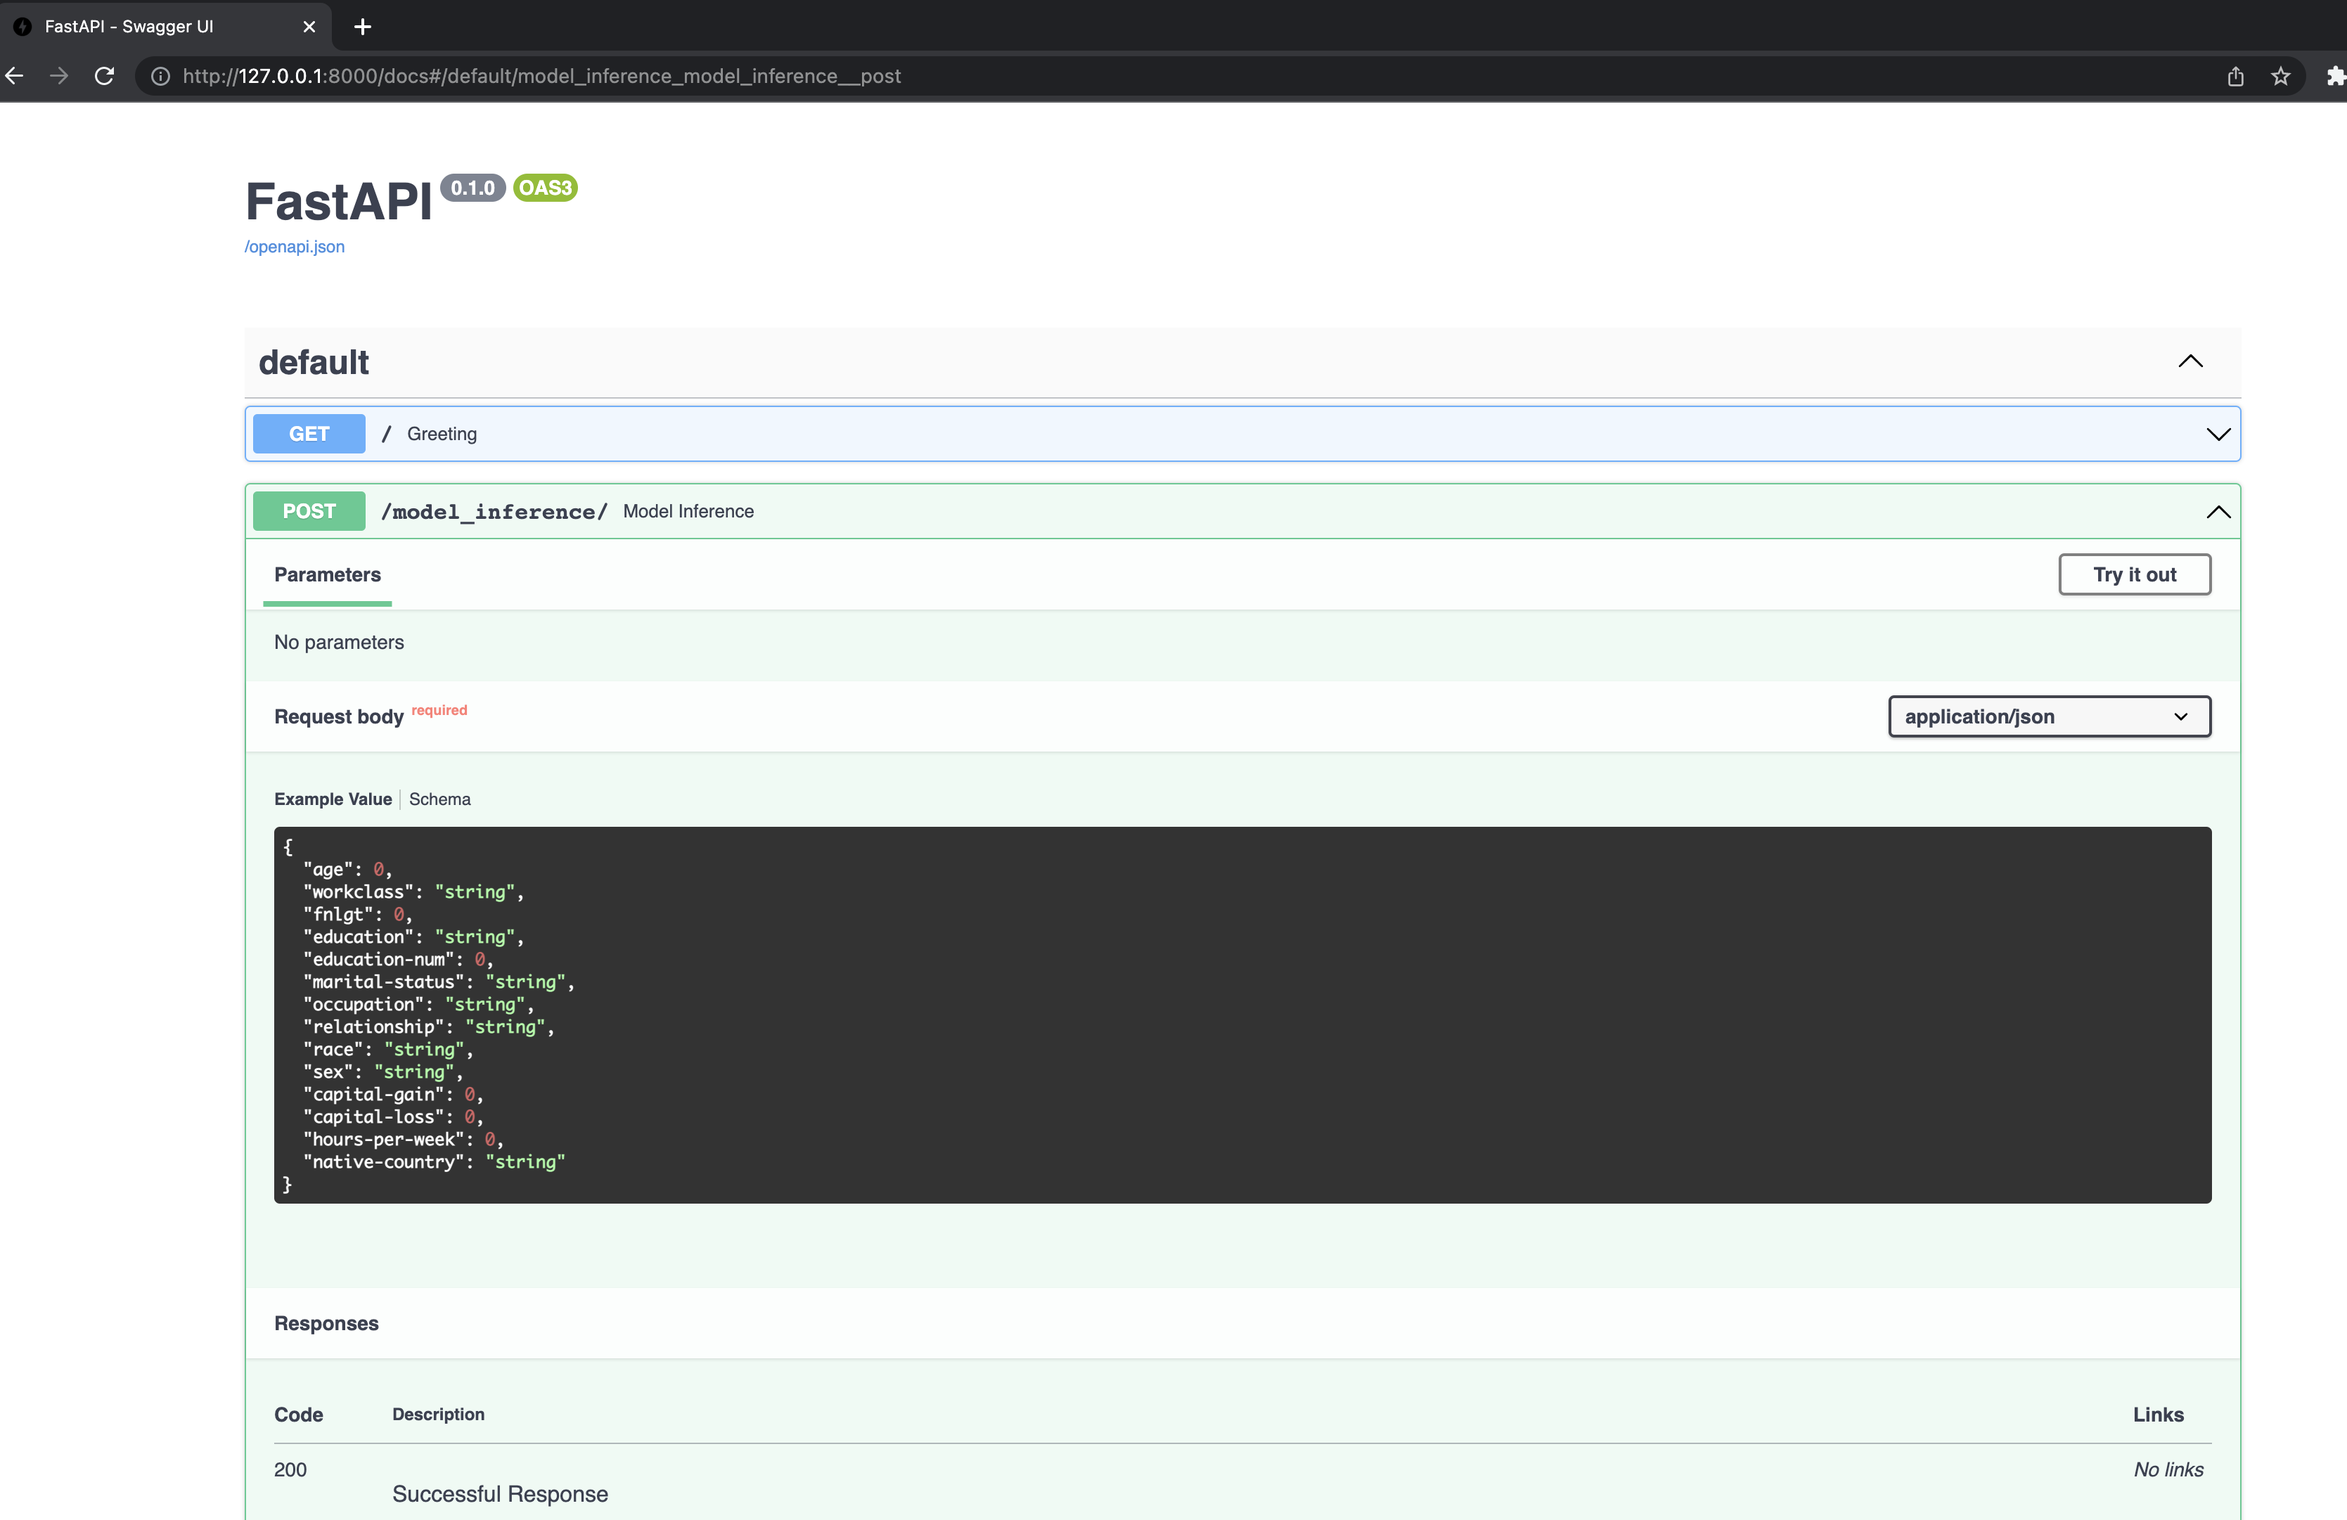
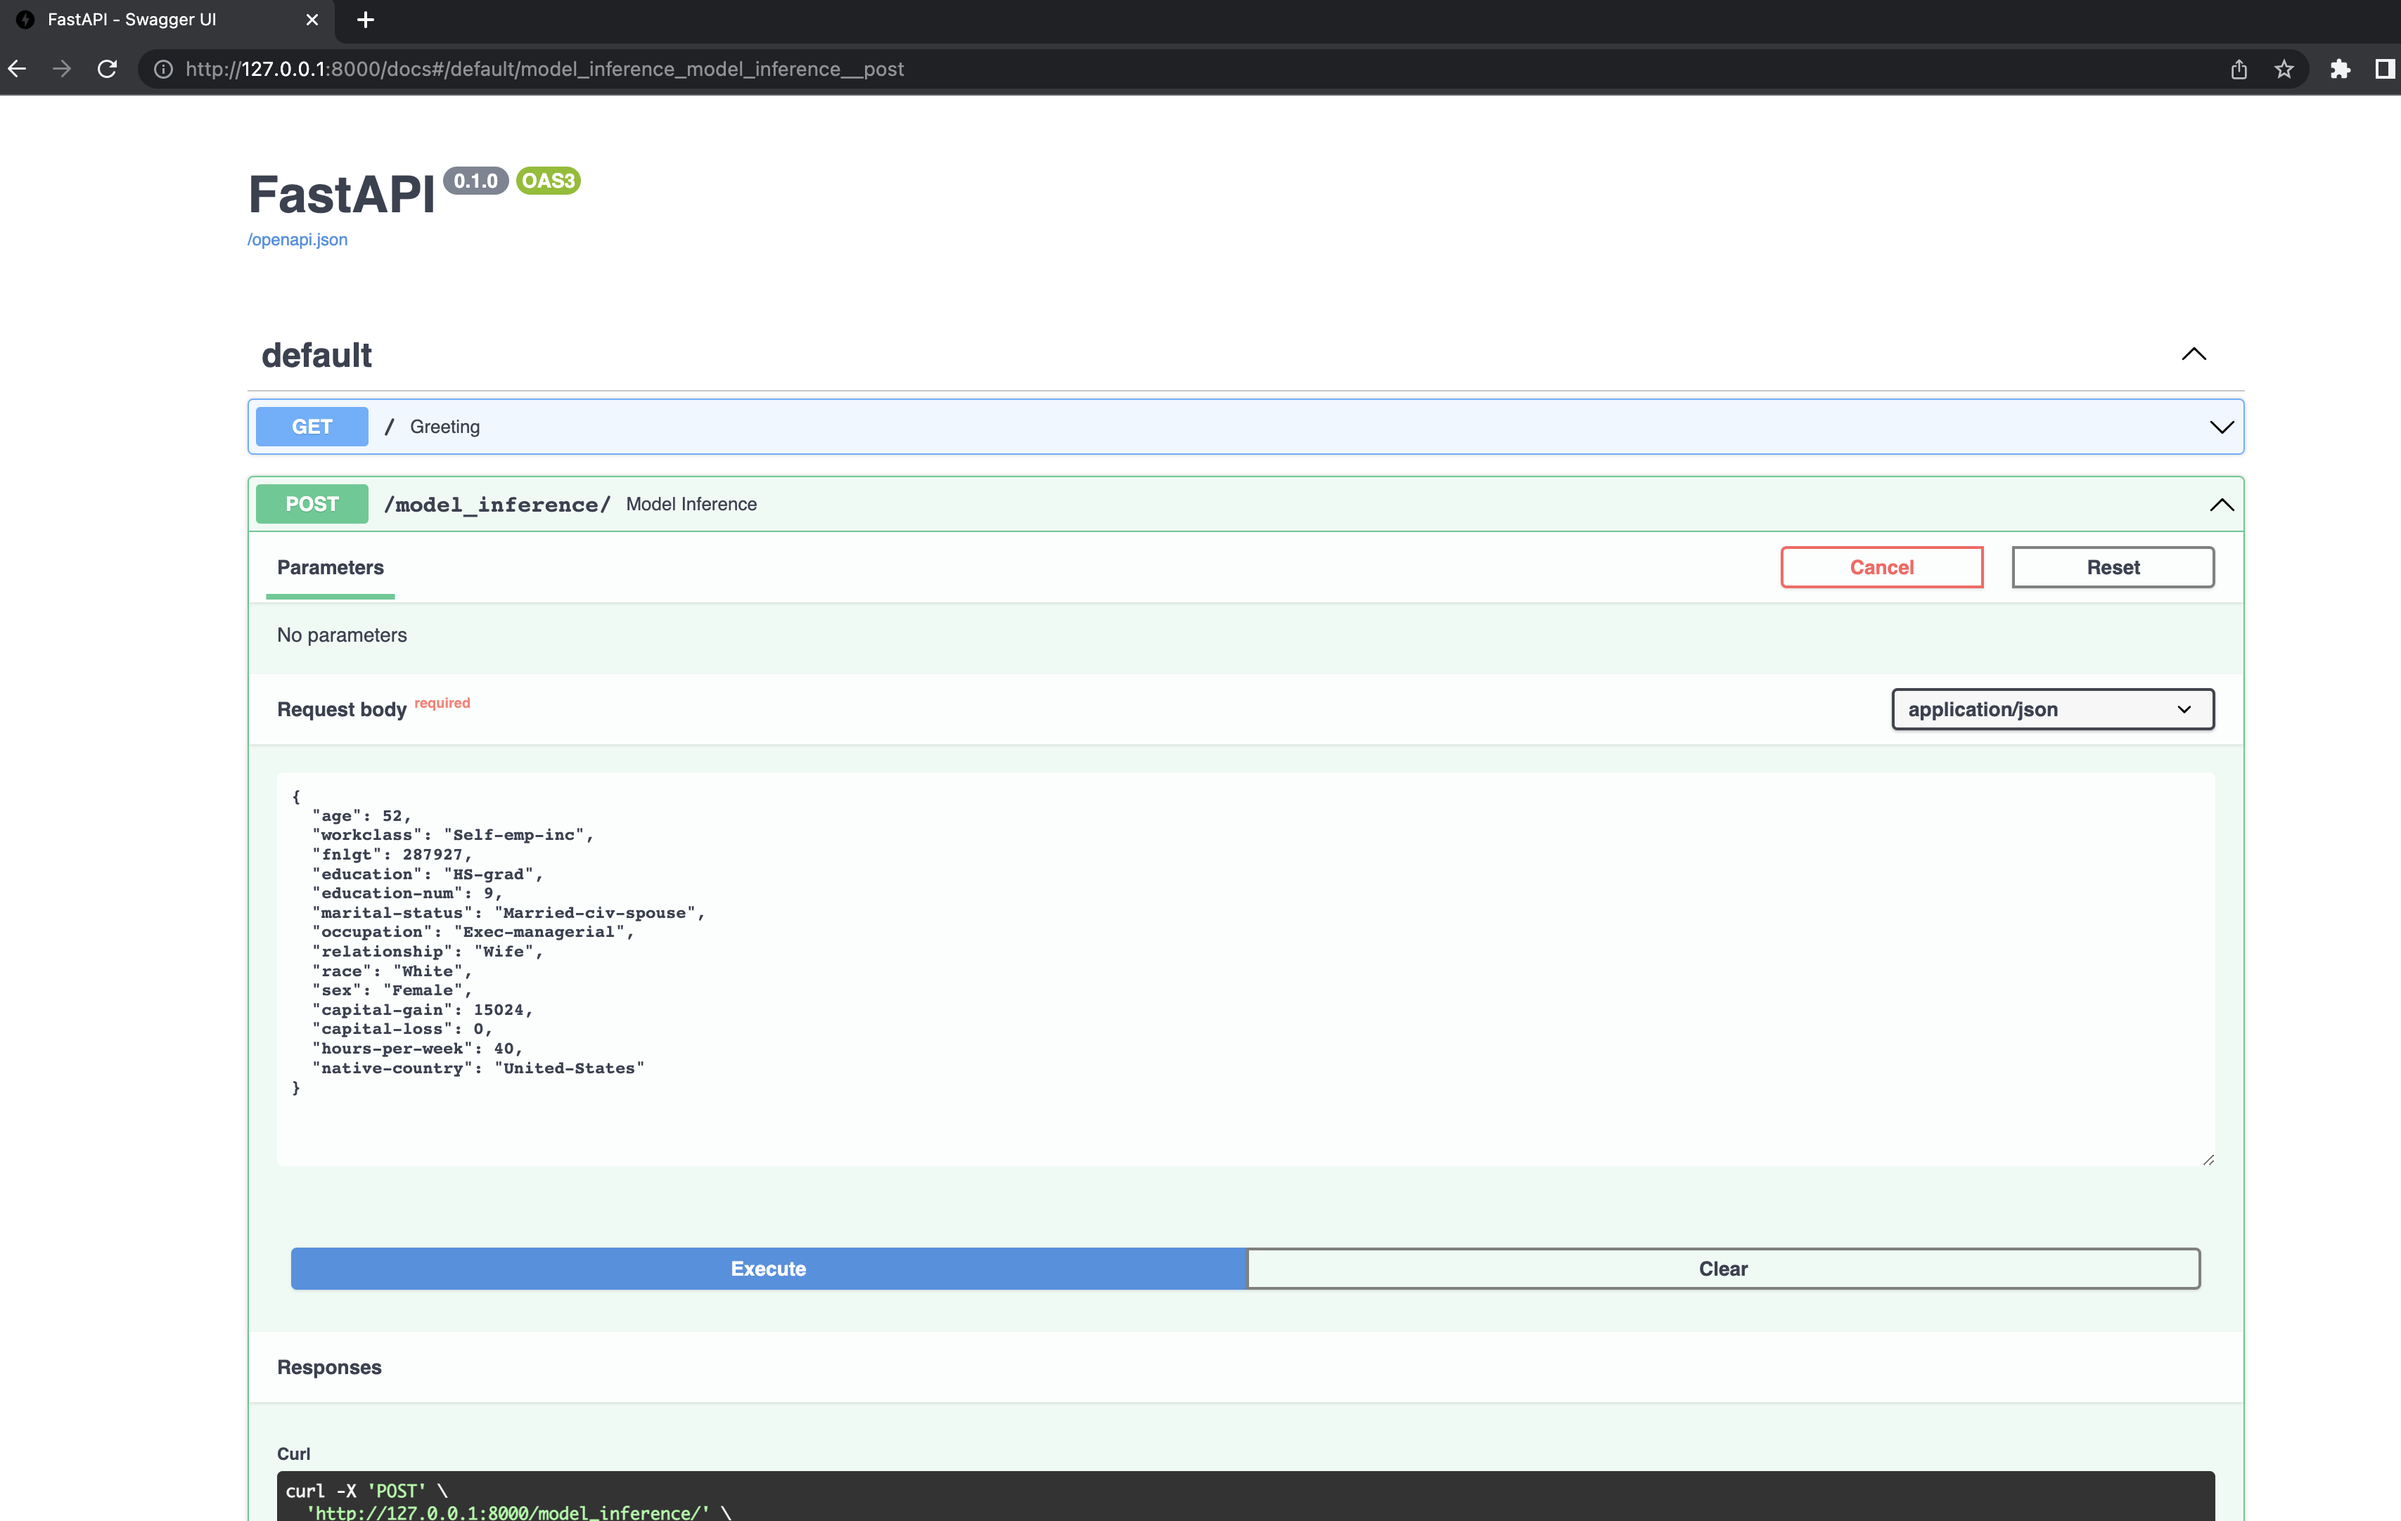
added input example

diff --git a/starter/main.py b/starter/main.py
@@ -33,6 +33,24 @@ class model_variables(BaseModel):
 
     class Config:
         allow_population_by_field_name = True
+        schema_extra = {
+            "example": {
+                "age": 52,
+                "workclass": "Self-emp-inc",
+                "fnlgt": 287927,
+                "education": "HS-grad",
+                "education-num": 9,
+                "marital-status": "Married-civ-spouse",
+                "occupation": "Exec-managerial",
+                "relationship": "Wife",
+                "race": "White",
+                "sex": "Female",
+                "capital-gain": 15024,
+                "capital-loss": 0,
+                "hours-per-week": 40,
+                "native-country": "United-States"
+            }
+        }
 
 # Get with welcome message
 
